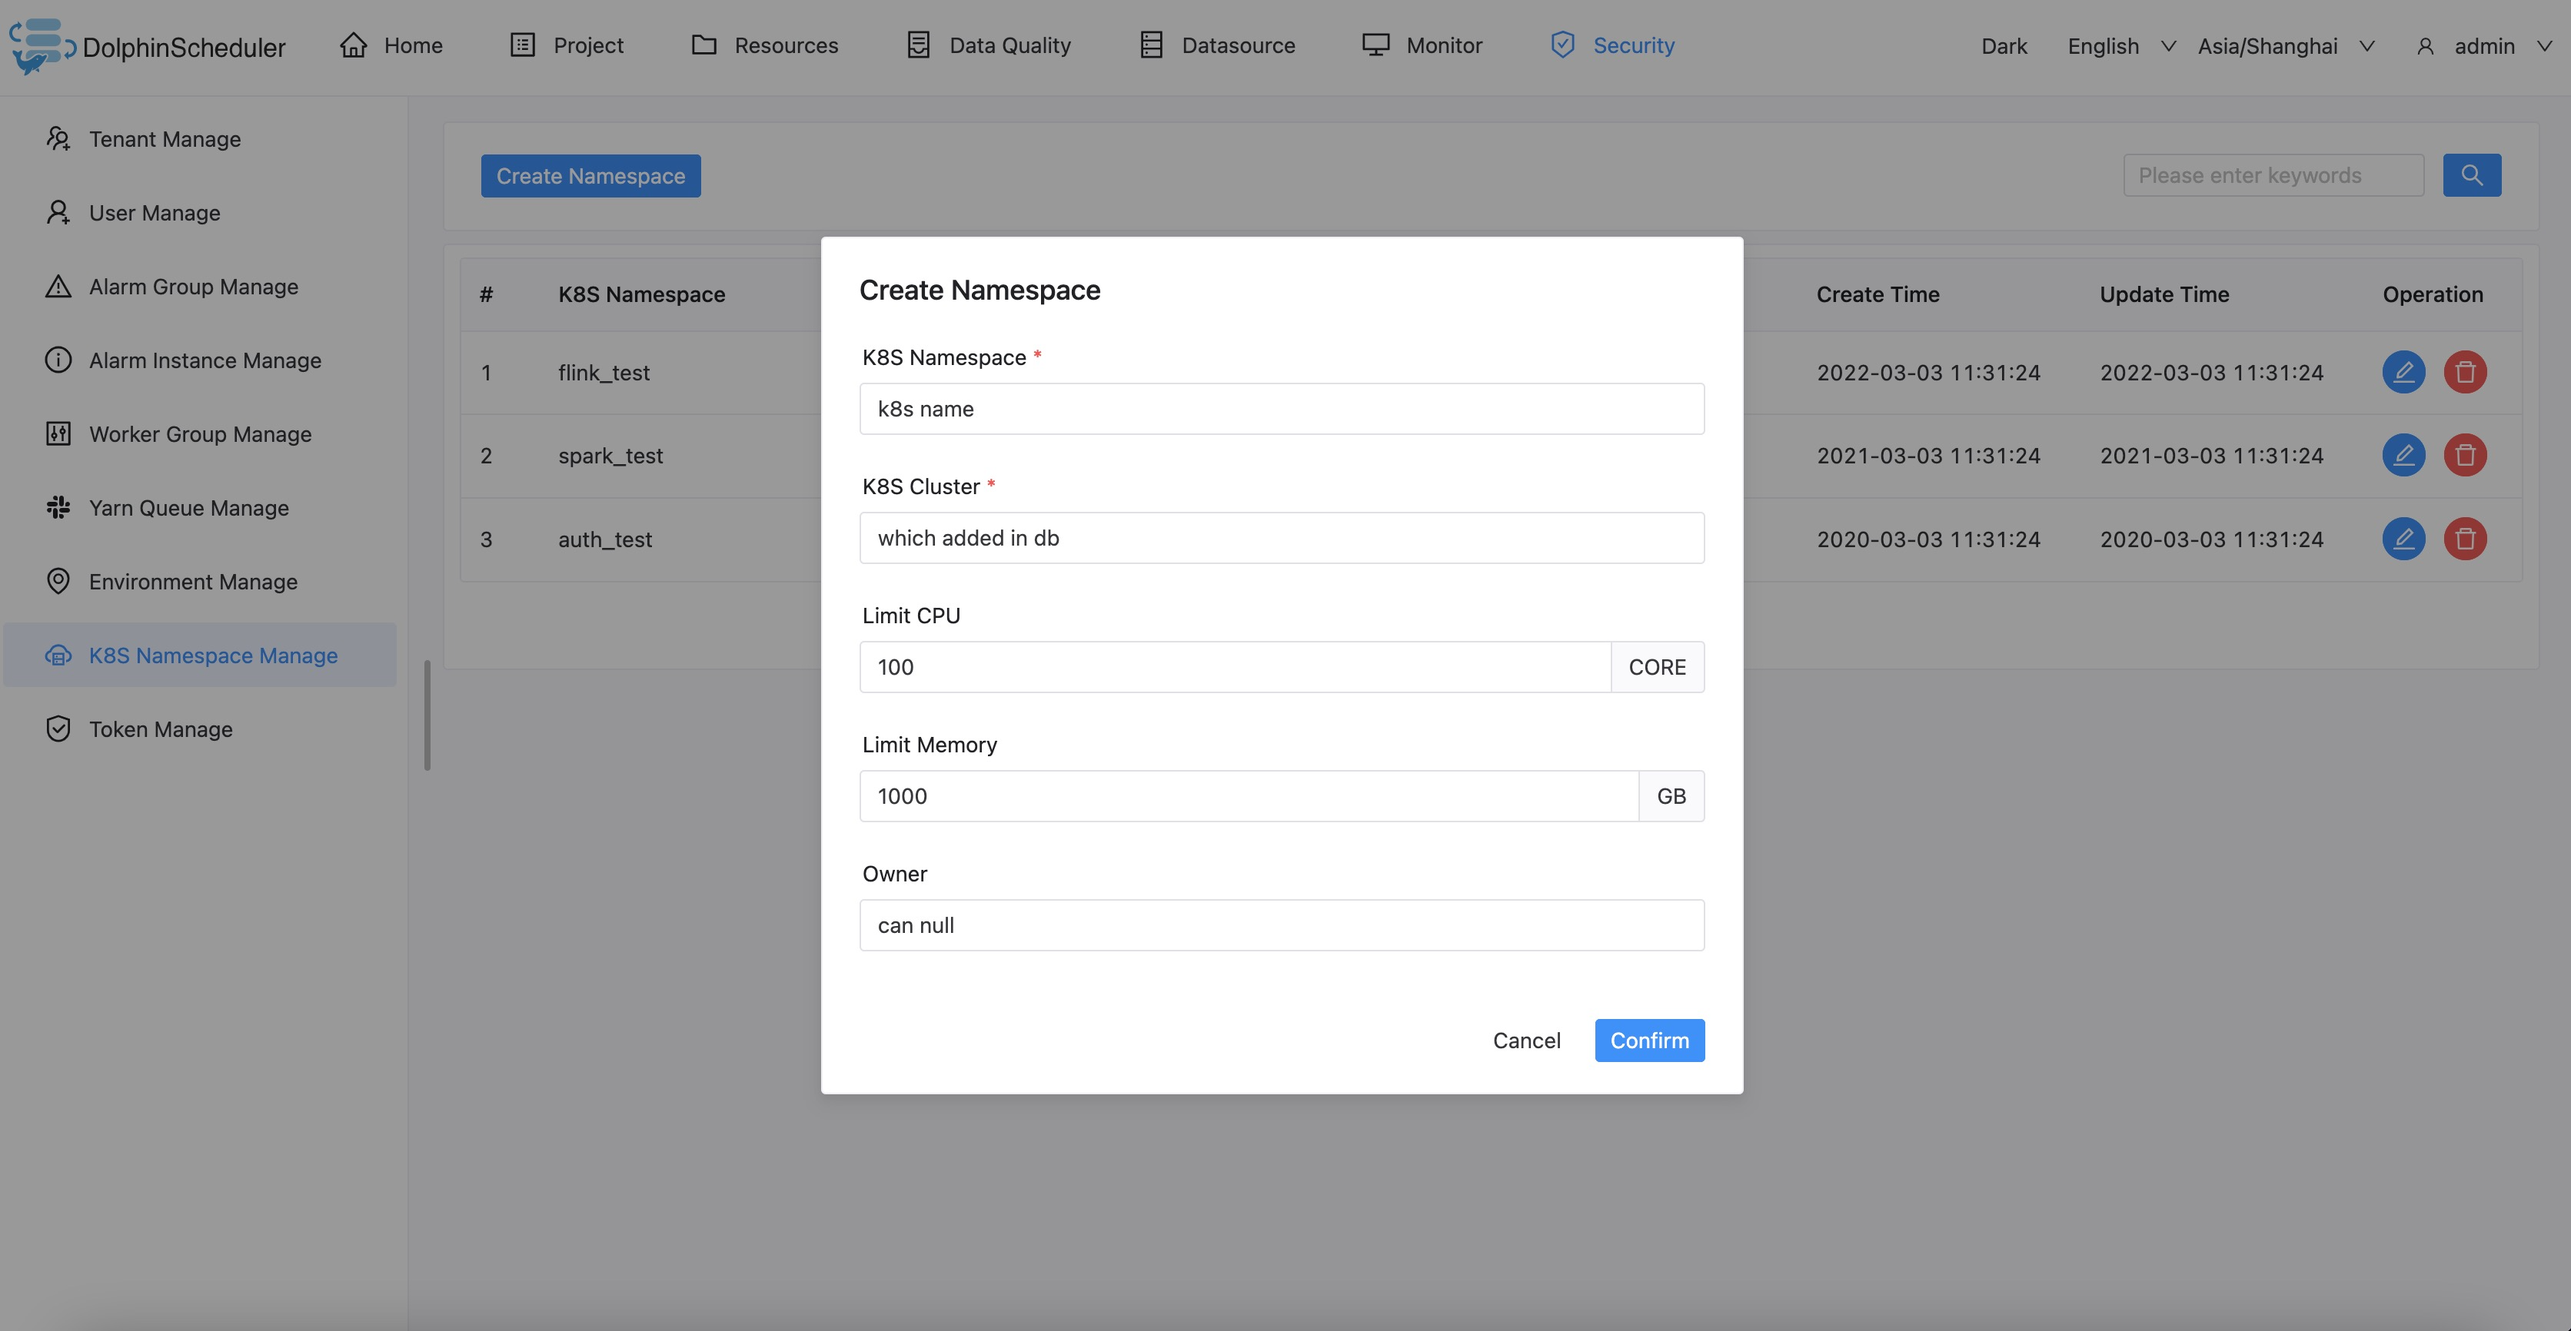
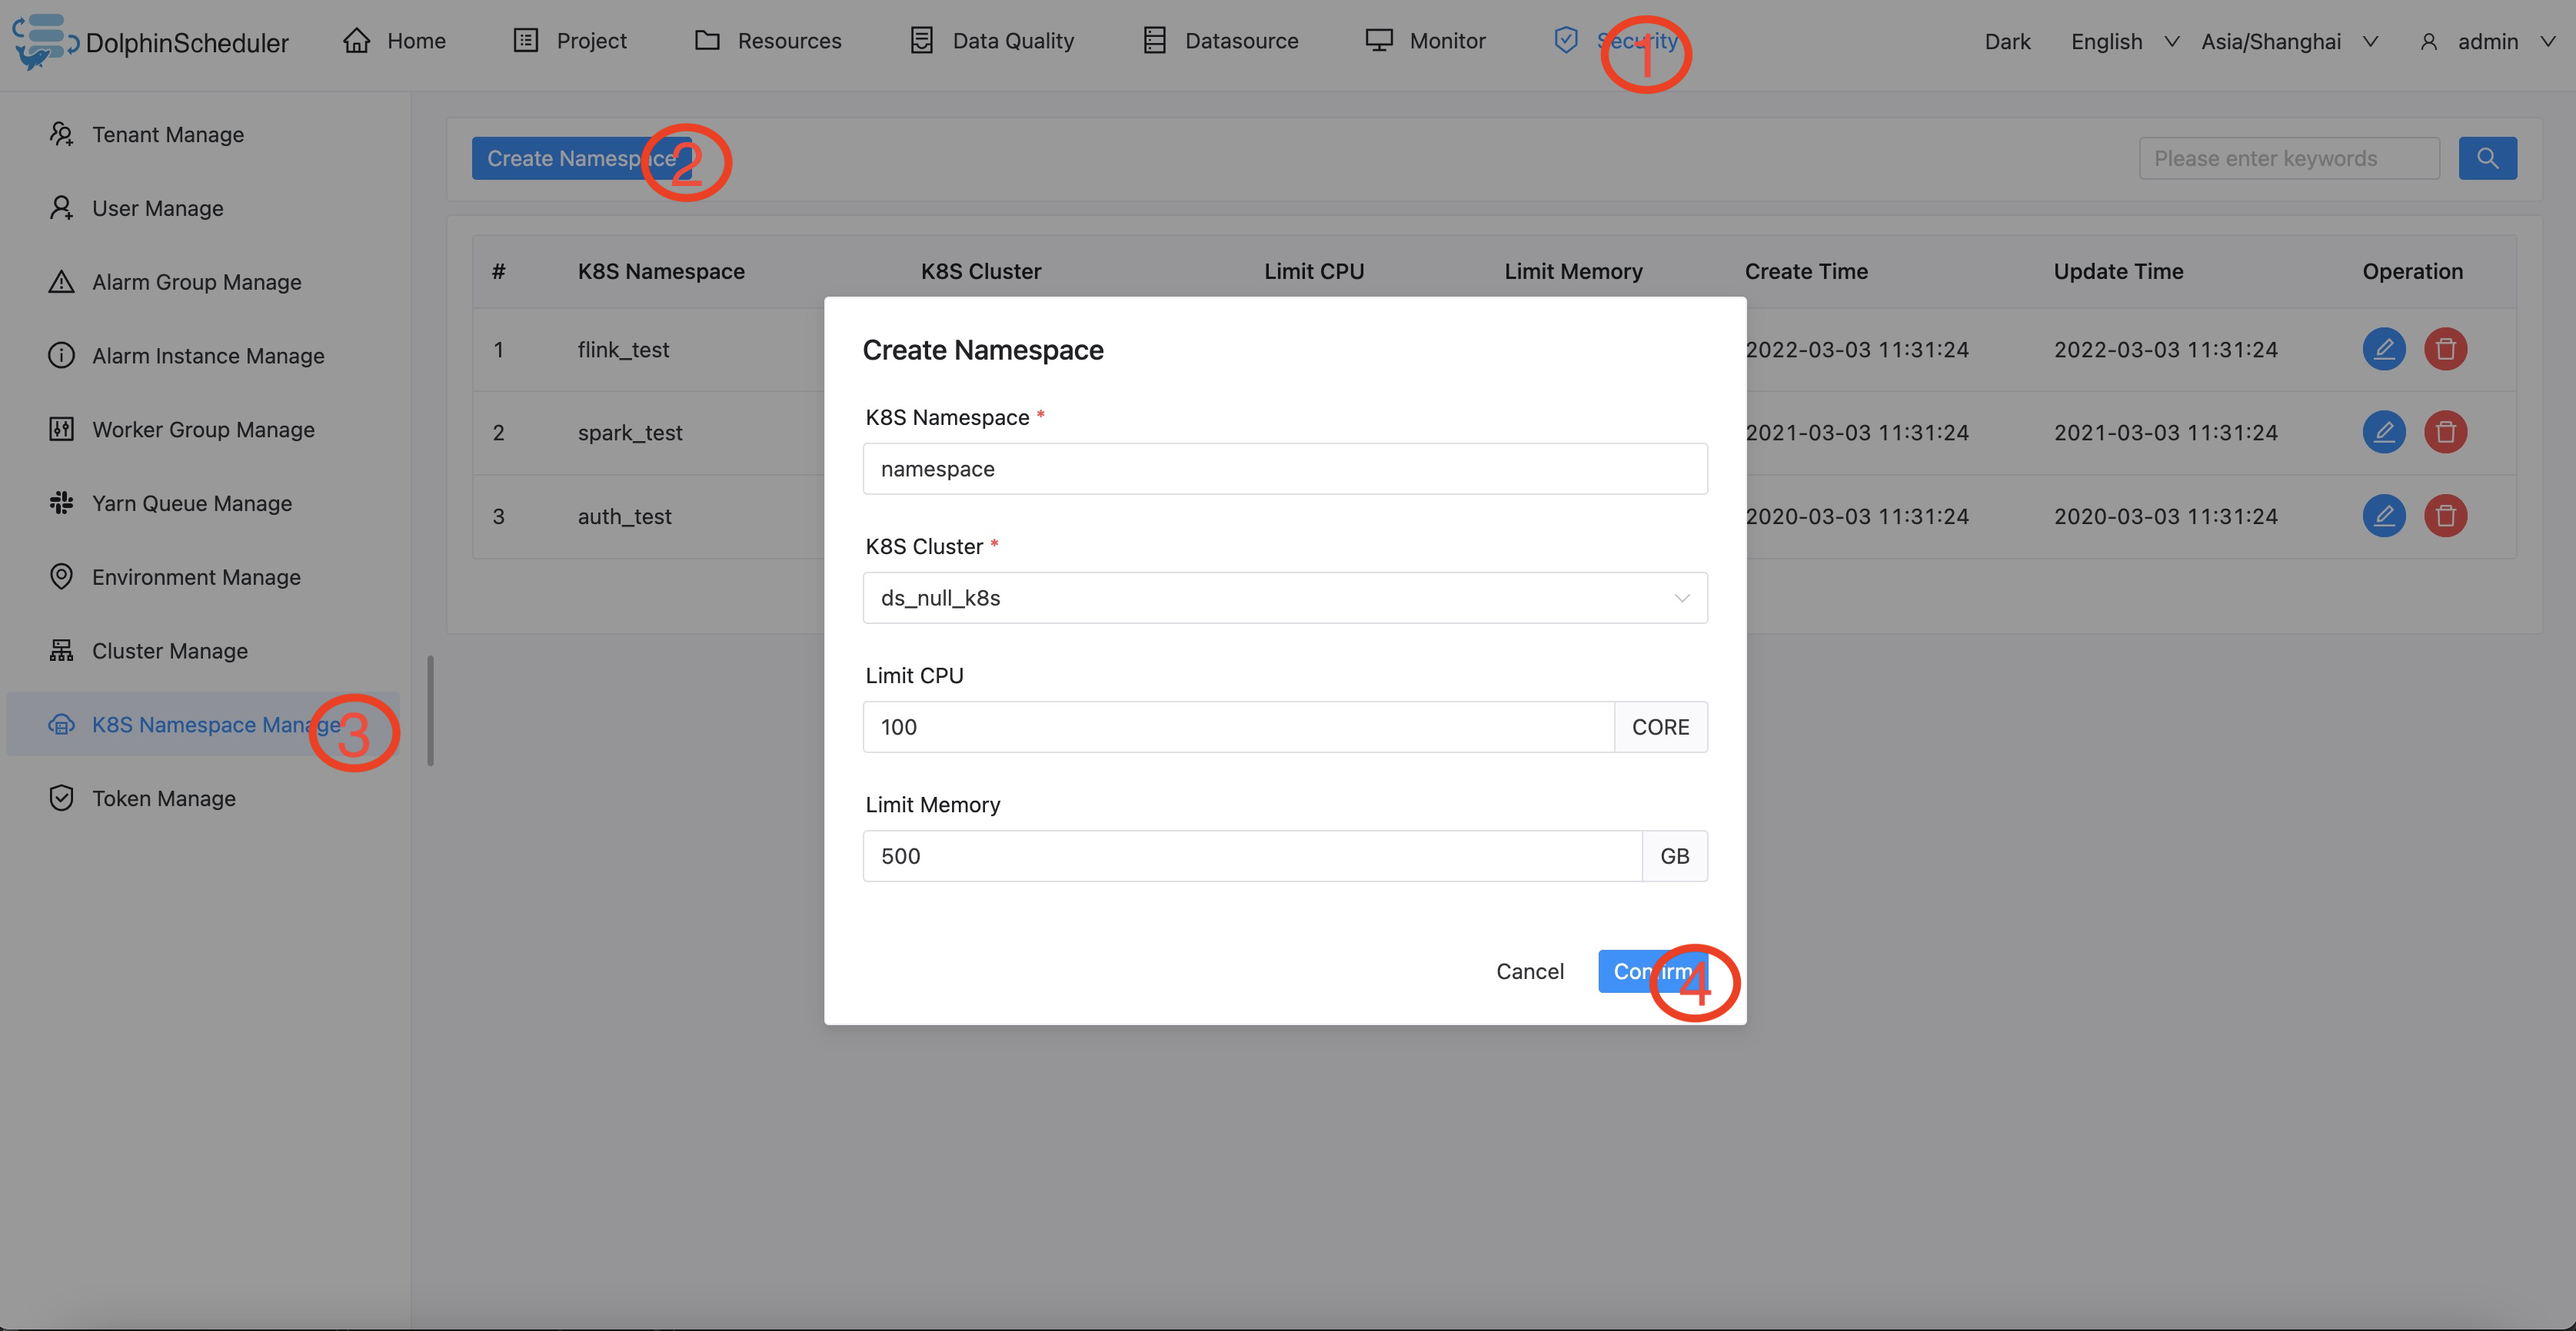
Automated deployment: 8a10089b2b79588d881c3fdd635f40aaf58e5219

diff --git a/en-us/docs/dev/user_doc/guide/security.html b/en-us/docs/dev/user_doc/guide/security.html
@@ -195,7 +195,7 @@
 <p>Add or update k8s cluster</p>
 </blockquote>
 <ul>
-<li>First enter the configuration of the k8s cluster connection into the table <code>t_ds_k8s</code> in the database, which will be configured later by the web page.</li>
+<li>First enter the configuration of the k8s cluster connection into the table <code>t_ds_k8s</code> in the database for batch job and will removed later, the creation of the namespace now selects the cluster by drop-down options.</li>
 </ul>
 <blockquote>
 <p>Add or update namespace</p>

diff --git a/zh-cn/docs/dev/user_doc/guide/security.html b/zh-cn/docs/dev/user_doc/guide/security.html
@@ -187,7 +187,7 @@ worker.groups=default,test
 <p>创建/更新 k8s集群</p>
 </blockquote>
 <ul>
-<li>先把k8s集群连接的配置录入 database 的表 <code>t_ds_k8s</code>，后续会通过页面配置.</li>
+<li>先把k8s集群连接的配置录入 database 的表 <code>t_ds_k8s</code>给批次使用后续移除，namespace的创建现在通过下拉选择集群.</li>
 </ul>
 <blockquote>
 <p>创建/更新 namespace</p>
